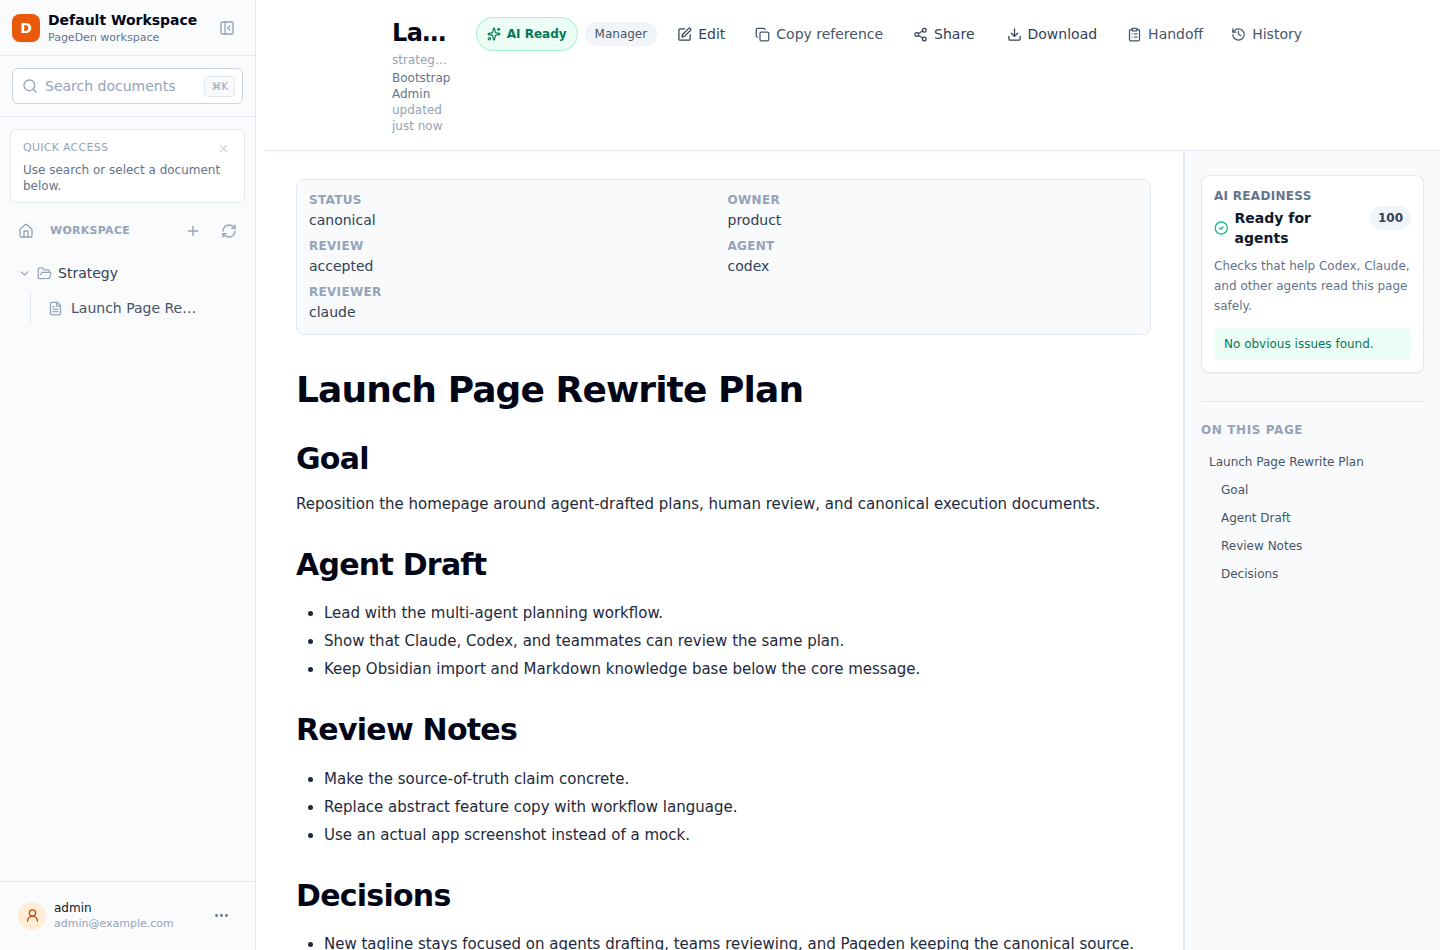
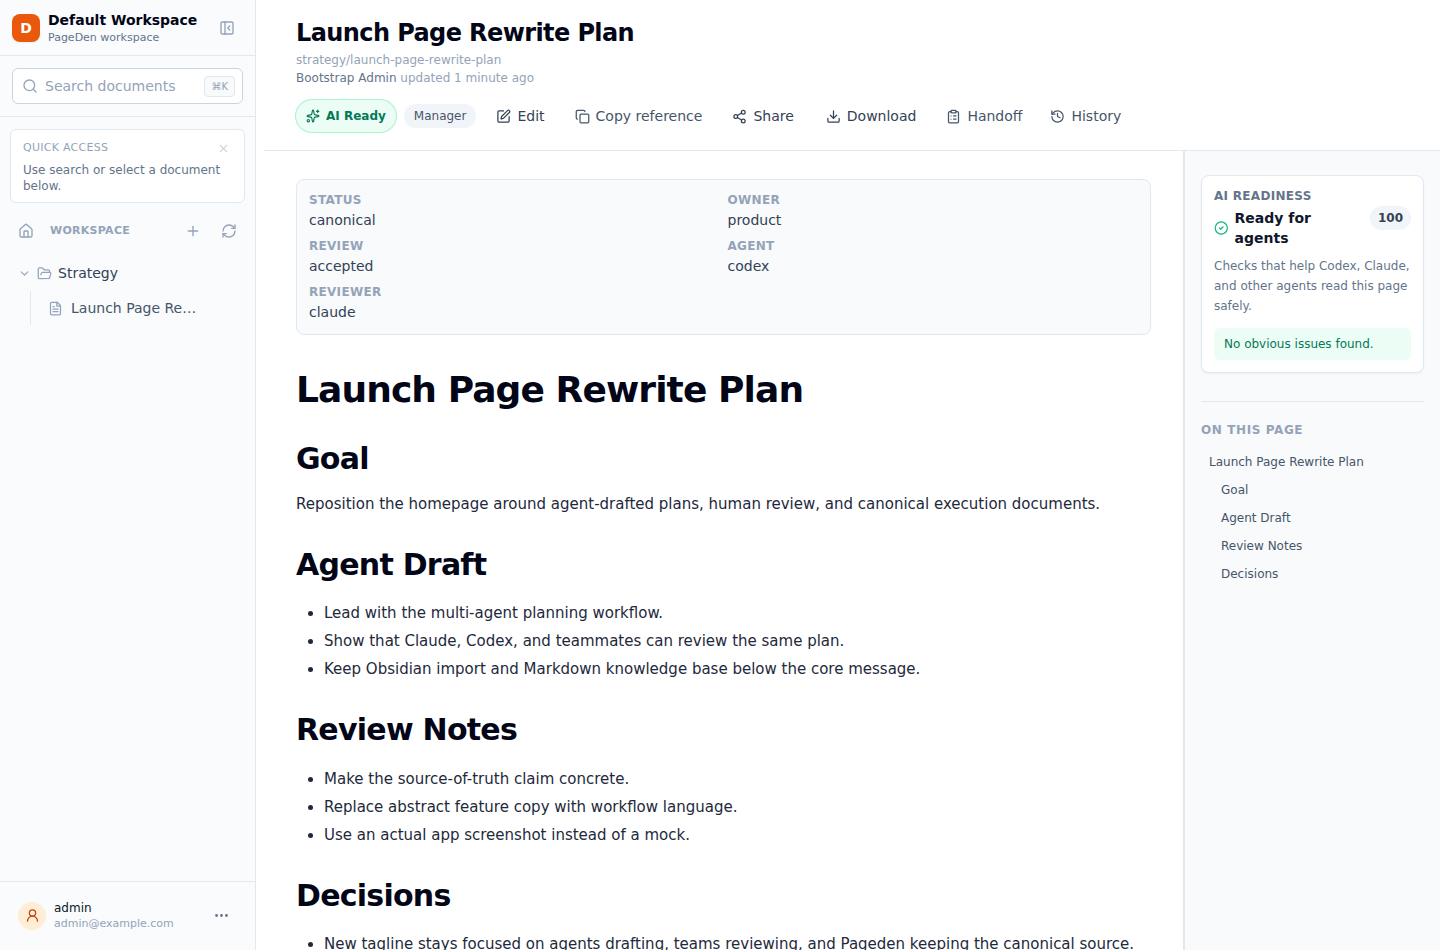
Fix document header title layout

diff --git a/apps/web/src/features/document/document-editor.tsx b/apps/web/src/features/document/document-editor.tsx
@@ -190,9 +190,9 @@ export function DocumentEditor({ doc, workspaceId }: { doc: Doc; workspaceId: st
   return (
     <article className="flex min-h-full flex-col bg-white lg:h-screen">
       <header className="border-b border-slate-200 px-4 py-4 sm:px-6 lg:px-8">
-        <div className="mx-auto flex max-w-[920px] flex-col gap-3 sm:flex-row sm:items-start sm:justify-between sm:gap-6">
-          <div className="min-w-0 pt-0.5">
-            <h1 className="break-words text-2xl font-semibold leading-tight tracking-tight text-slate-950 sm:truncate">{doc.title}</h1>
+        <div className="mx-auto flex w-full max-w-[1180px] flex-col gap-3 2xl:flex-row 2xl:items-start 2xl:justify-between 2xl:gap-6">
+          <div className="min-w-0 pt-0.5 2xl:flex-1">
+            <h1 className="break-words text-2xl font-semibold leading-tight tracking-tight text-slate-950">{doc.title}</h1>
             <p className="mt-1 truncate text-xs text-slate-400">{doc.path}</p>
             <p className="mt-0.5 text-xs text-slate-400">
               {doc.updatedByName ? <span className="font-medium text-slate-500">{doc.updatedByName}</span> : null}
@@ -200,7 +200,7 @@ export function DocumentEditor({ doc, workspaceId }: { doc: Doc; workspaceId: st
               {timeAgo(doc.updatedAt)}
             </p>
           </div>
-          <div className="flex shrink-0 flex-wrap items-center gap-2 sm:justify-end">
+          <div className="flex shrink-0 flex-wrap items-center gap-2 2xl:justify-end">
             <span className="inline-flex">
               <AiReadinessBadge readiness={doc.aiReadiness} />
             </span>
